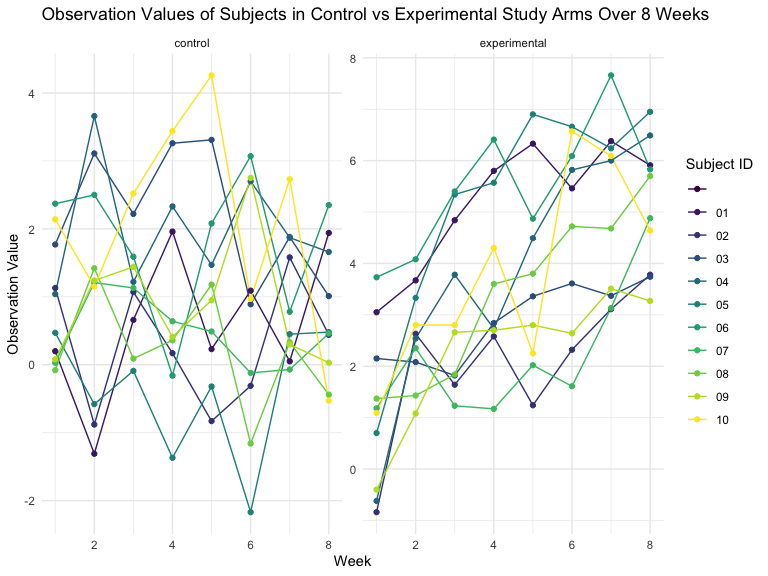
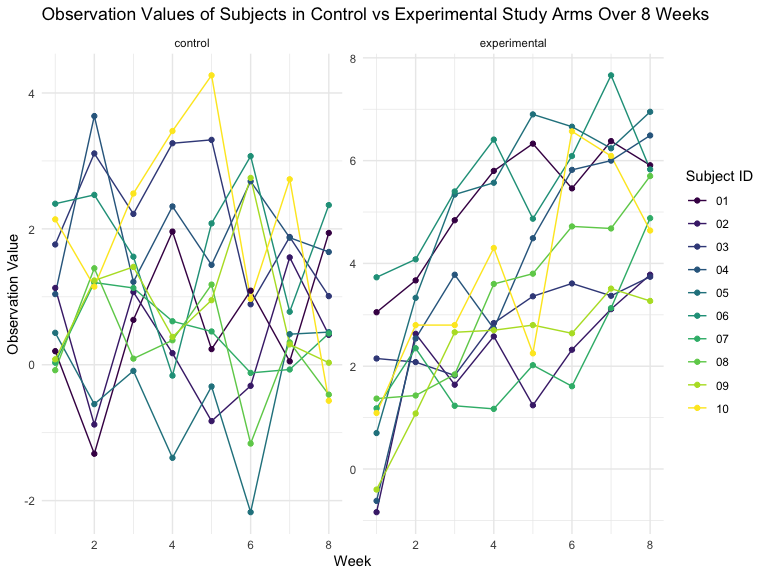
fixing control v experimemt plot P2

diff --git a/p8105_hw5_vsm2118.md b/p8105_hw5_vsm2118.md
@@ -269,9 +269,16 @@ data_list <- map(file_names, ~read_csv(.x) %>%
 ``` r
 # Step 3: Tidy the data
 tidy_data <- bind_rows(data_list) %>% 
+  filter(!is.na(subject_id) & subject_id != "") %>%
   pivot_longer(cols = starts_with("week_"), names_to = "week", values_to = "observation") %>%
   mutate(week = as.numeric(str_remove(week, "week_")))
 
+print(unique(tidy_data$subject_id))
+```
+
+    ##  [1] "01" "02" "03" "04" "05" "06" "07" "08" "09" "10"
+
+``` r
 # Step 4: Create a spaghetti plot
 study_plot <- ggplot(tidy_data, aes(x = week, y = observation, color = factor(subject_id), group = interaction(subject_id, arm))) +
   geom_line() +
